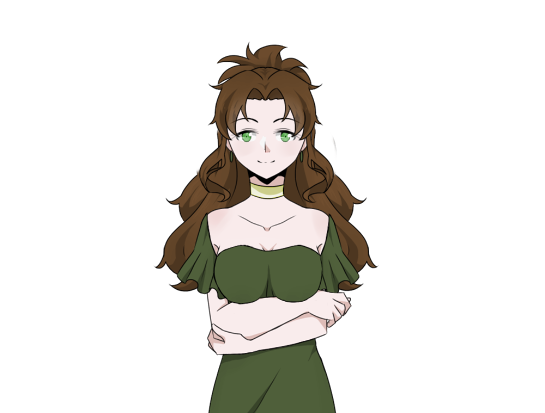
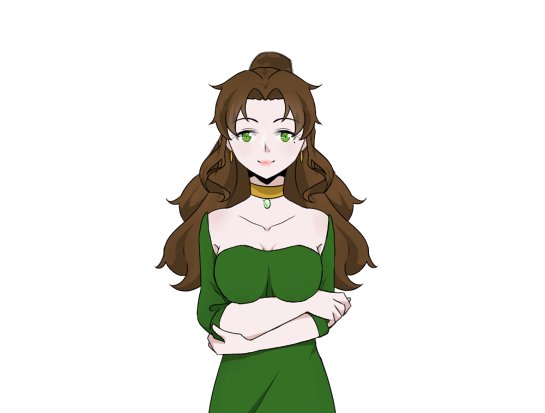
updated portraits, busts, added final characters, added a meet the cast md file

diff --git a/game.js b/game.js
@@ -117,7 +117,7 @@ const textNodes = [
   {
     id: 3,
     name: "Valeria",
-    text: "My name is Valeria. I am a friend of your father's, and you're currently in my living room. You...had an accident.",
+    text: "My name is Valeria. Your name is Sam. I am a friend of your father's, and you're currently in my living room. You...had an accident.",
     portrait: "/assets/busts/Valeria/ValeriaHappy3.png",
     options: [
       {
@@ -230,12 +230,64 @@ const textNodes = [
       {
         text: "Murdered? Did they catch the killer?",
         score: 1,
-        nextText: 7
+        nextText: 15
       },
       {
         text: "I'm sorry for your loss.",
         score: 2,
-        nextText: 7
+        nextText: 15
+      }
+    ]
+  },
+
+  {
+    id: 10,
+    name: "Valeria",
+    text: "Yes, he supposedly won first place.",
+    portrait: "/assets/busts/Valeria/ValeriaHappy2.png",
+    options: [
+      {
+        text: "...Supposedly?",
+        nextText: 11
+      },
+      {
+        text: "You don't sound too confident.",
+        nextText: 11
+      }
+    ]
+  },
+
+  {
+    id: 11,
+    name: "Valeria",
+    text: "Listen...I love Arius dearly. I would not dare to talk poorly about the deceased, but...his style is quite questionable. He has entered many competitions, but lost all but this one. It's a shame his luck ran dry. But hey, I was in his shoes before. Can't win them all.",
+    portrait: "/assets/busts/Valeria/ValeriaAngry.png",
+    options: [
+      {
+        text: "()",
+        nextText: 14
+      },
+      {
+        text: "(She seems jealous...)",
+        setState: { valeriaSus: true },
+        nextText: 12
+      }
+    ]
+  },
+
+  {
+    id: 12,
+    name: "Sam (player)",
+    text: "(Something is off about the way she talks about Arius. Maybe I should push further? What should I ask?)",
+    portrait: "/assets/busts/Valeria/ValeriaSad2.png",
+    options: [
+      {
+        text: "You sound like you're jealous of Arius's sudden victory.",
+        nextText: 13
+      },
+      {
+        text: "",
+        nextText: 13
       }
     ]
   },

diff --git a/MeettheCast.md b/MeettheCast.md
@@ -1,0 +1,117 @@
+<center>
+
+## Meet the Cast
+
+<img src="/assets/portraits/Sam.png">
+<br>
+
+## Sam [Player]
+### Age: 19
+The main protagonist who was invited to a dinner party celebrating your father's protégé's first victory in a big art competition. Shortly after your father's protégé was murdered, you were knocked unconscious, and woke up with little to no memories of the event.
+<br>
+
+
+<img src="/assets/busts/Arius/AriusPortraitBW.png">
+<br>
+
+## Arius [Deceased]
+### Age: 23
+Sam's father's protégé, and Valeria's nephew. He has lost every art competition he ever entered, until Sam's father took him under his wing. After winning his first art competiton, his Aunt Valeria decided to celebrate with a big dinner party. His luck quickly ran dry...
+<br>
+
+
+<img src="/assets/portraits/Valeria.png">
+<br>
+
+## Valeria
+### Age: 28
+Valeria always had dreams of becoming famous, so she tried to strike it rich as a famous artist. However, she did not make it big in the art industry, and ended up marrying a wealthy, famous, film director. She lives in the spotlight through him. She is the one who recommended Arius to your father, a long-time friend of hers.
+<br>
+
+<img src="/assets/portraits/Aurelia.png">
+<br>
+
+## Aurelia
+### Age: 24
+Valeria's younger sister. A successful business woman who manages her own high-end fashion brand. Has some sort of rivalry with her sister. 
+<br>
+
+<img src="/assets/portraits/Dad.png">
+<br>
+
+## Dad
+### Age: 43
+Sam's father, who was once a world-famous artist. Although retired, he has dedicated his life to philanthropy, and mentoring budding artists. Mentored the victim, and is an old friend of Valeria's.
+<br>
+
+<img src="/assets/portraits/Dante.png">
+<br>
+
+## Dante
+### Age: 24
+A cold, blunt, man who is protective of his timid younger sister, Katalina. He is Arius's childhood friend. Dante often encouraged him to pursue a different field due to his several art competition failures. He may or may not have unrequited feelings for the party's hostess, Valeria.
+<br>
+
+<img src="/assets/portraits/Katalina.png">
+<br>
+
+## Katalina
+### Age: 20
+Unlike her sharp-tongued elder brother, Katalina is meek and polite to a fault. She rarely speaks unless spoken to, and is often found hiding behind her brother. She is currently studying at a prestigious university to be a nurse. Rumor has it she had a "complicated" relationship with the victim.
+<br>
+
+<img src="/assets/portraits/Sabrina.png">
+<br>
+
+## Sabrina
+### Age: 23
+A good friend of Dante and Arius. She can be described as a fun-loving gal who's always looking out for her friends. Her hobbies include knitting, blogging, chiding her sourpuss pal Dante and cleaning up after her dim-witted pal Arius's messes.
+<br>
+
+<img src="/assets/portraits/Vivian.png">
+<br>
+
+## Vivian
+### Age: 19
+Vivian wears her heart on her sleeve, with pride. She's not afraid to speak her mind, and speaks her mind a LOT. She's Oskar's loyal girlfriend, and doesn't seem to get along well with that grouch, Dante.
+<br>
+
+<img src="/assets/portraits/Oskar.png">
+<br>
+
+## Oskar
+### Age: 19
+Oskar is a famous artist who was winning prestigious art awards since he was a child. Many consider him to be the complete opposite of Arius. He has won every competition he entered except for his most recent one to Arius. His loss doesn't seem to bother him too much...or so he claims.
+<br>
+
+<img src="/assets/portraits/Elijah.png">
+<br>
+
+## Elijah
+### Age: 26
+One of your father's mentees. He has aspirations to make it big as a famous artist. It was said he and Arius did not get along, and the fact that Arius had beaten him in the last art competition has caused a greater strain in their relationship. A shameless skirt-chaser.
+<br>
+
+<img src="/assets/portraits/Connor.png">
+<br>
+
+## Connor
+### Age: 26
+Connor is a computer programmer and a good friend of Valeria. He is quite the fan of your father's work, and is thrilled to finally meet him in person.
+<br>
+
+<img src="/assets/portraits/Lena.png">
+<br>
+
+## Lena
+### Age: 22
+Lena is a journalist with a desire to land an interview with at least one of the big shots attending the party. She is a good friend of Elijah's, and is attending as his plus one.
+
+
+
+
+
+
+
+
+</center>
